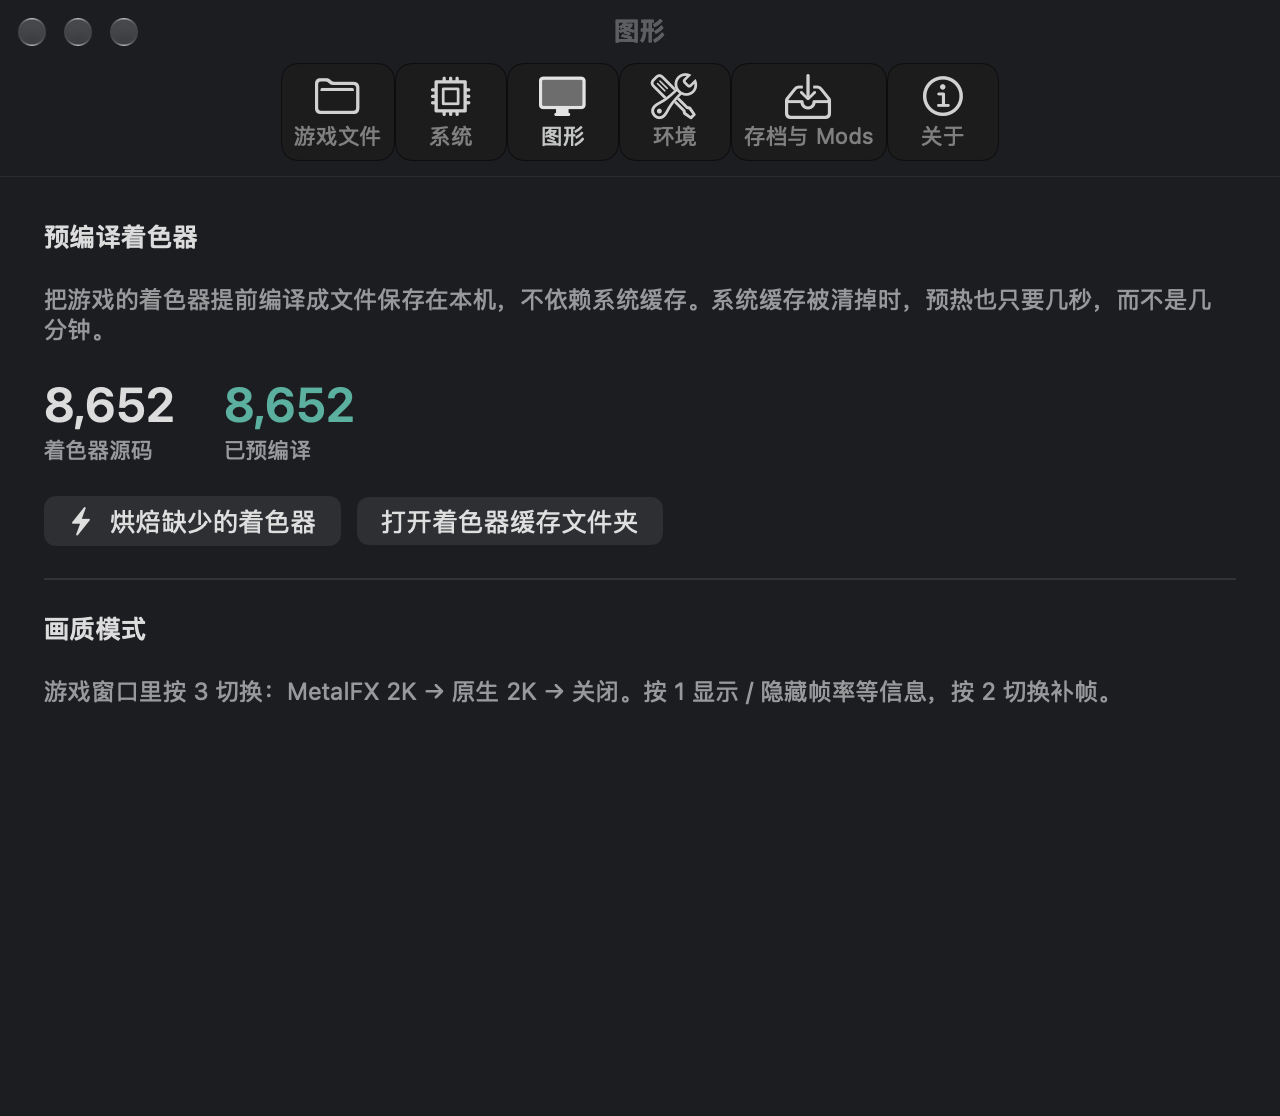
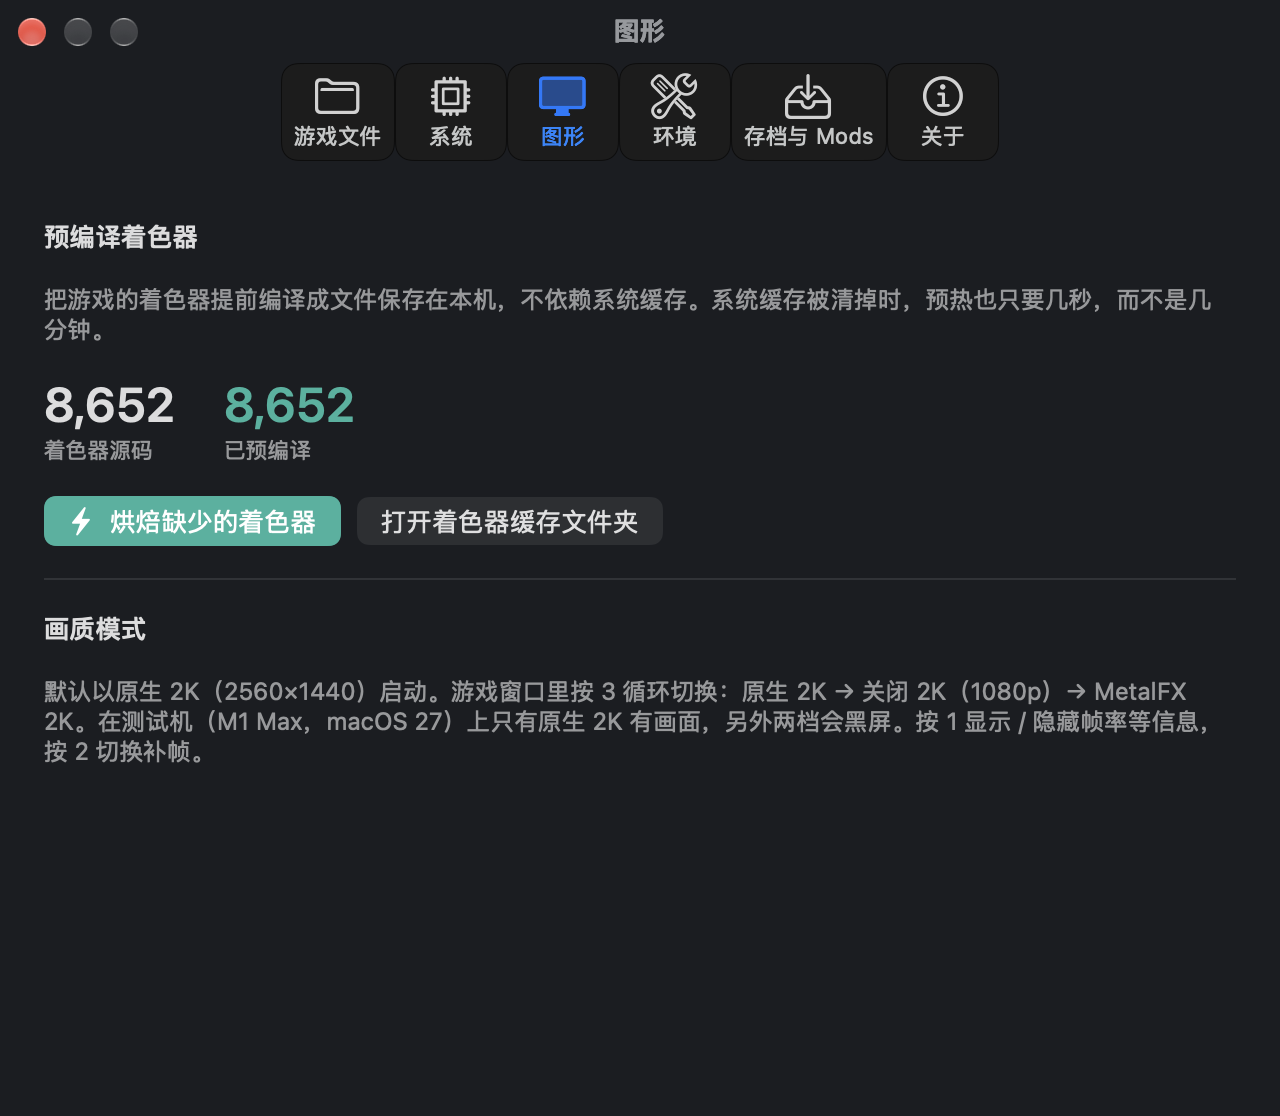
Release 1.0.1: start in native 2K by default
On the test machine (M1 Max, macOS 27) the upstream 1080p start mode and the
MetalFX mode show a black window while the full 2560x1440 output works, so the
game now starts at 2560x1440 unless TOTK_OUTPUT_RES=auto is set. The patch grows
from 3 to 5 files (game_patches.c, game_patches_v143.c). README and the graphics
page now describe the real default mode (it was wrongly written as MetalFX) and
state that the root cause of the black window was not found. Version 1.0.1.

diff --git a/Launcher.swift b/Launcher.swift
@@ -1060,7 +1060,7 @@ struct SettingsView: View {
             if let p = model.progress, model.busy == "烘焙着色器" { ProgressView(value: p).tint(accent); Text(model.step).font(.system(size: 11)).foregroundStyle(.secondary) }
             Divider()
             Text("画质模式").font(.system(size: 13, weight: .semibold))
-            Text("游戏窗口里按 3 切换：MetalFX 2K → 原生 2K → 关闭。按 1 显示 / 隐藏帧率等信息，按 2 切换补帧。").font(.system(size: 12)).foregroundStyle(.secondary)
+            Text("默认以原生 2K（2560×1440）启动。游戏窗口里按 3 循环切换：原生 2K → 关闭 2K（1080p）→ MetalFX 2K。在测试机（M1 Max，macOS 27）上只有原生 2K 有画面，另外两档会黑屏。按 1 显示 / 隐藏帧率等信息，按 2 切换补帧。").font(.system(size: 12)).foregroundStyle(.secondary)
         }
     }
 
@@ -1098,7 +1098,7 @@ struct SettingsView: View {
                 IconView(image: model.appIcon, size: 64)
                 VStack(alignment: .leading, spacing: 3) {
                     Text("王国之泪 启动器").font(.system(size: 18, weight: .bold))
-                    Text("版本 1.0 · 需要 macOS 26+ 与 Metal 4").font(.system(size: 12)).foregroundStyle(.secondary)
+                    Text("版本 1.0.1 · 需要 macOS 26+ 与 Metal 4").font(.system(size: 12)).foregroundStyle(.secondary)
                 }
             }
             Text("这个启动器只负责检测环境、调用构建脚本、导入存档和启动游戏。游戏本体、密钥和固件都必须是你自己的，启动器不包含任何游戏内容。").font(.system(size: 12)).foregroundStyle(.secondary)

diff --git a/README.md b/README.md
@@ -43,7 +43,7 @@
 
 ### 相对上游的改进（`totk-mac-fixes.patch`）
 
-补丁只涉及 3 个文件，基于上游提交 `41e1e0c`；启动器下载构建工具时会**固定到该提交并自动应用补丁**。
+补丁只涉及 5 个文件，基于上游提交 `41e1e0c`；启动器下载构建工具时会**固定到该提交并自动应用补丁**。
 
 | 改进 | 说明 | 实测（M1 Max，8290 个着色器） |
 |---|---|---|
@@ -51,12 +51,13 @@
 | **持久着色器缓存** | 把每个着色器预先编译成 `.metallib` 文件放在本机，不依赖会被其他 Metal 程序挤掉的系统缓存。需要 Metal Toolchain。 | 系统缓存冷时的预热：单线程约 40 分钟（按速度估算）→ 多线程约 8 分钟 → 用预编译库后首次约 23 秒，之后稳定约 7 秒。 |
 | **内存布局回退** | 部分 Mac 上游戏要的固定地址段无法预留。默认布局放不下时，回退到"栈、堆、alias 并排"的单块布局（alias 默认 12 GiB）。 | 在 M1 Max + macOS 27 上让游戏能启动；该机器上观察到约一半的启动会预留失败，启动器会自动重试。 |
 | **语言设置文件** | 双击启动的 App 读不到环境变量，改为读取 `~/Library/Application Support/MacNativeGames/TOTK/language.txt`。 | — |
+| **默认以原生 2K 启动**（v1.0.1） | 上游默认以 1920×1080 启动（画在 2560×1440 画布的左上角）。在测试机上，这一档和随后的 MetalFX 档都显示黑屏，完整 2560×1440 输出正常，所以默认改为以 2560×1440 启动。想回到上游的 1080p 启动，设环境变量 `TOTK_OUTPUT_RES=auto`。 | 启动后直接有画面，不用再按 `3`；整张画布都被画满。代价是渲染分辨率比 1080p 高，GPU 负担更重。 |
 
 ### Mods 与其他尚未实现的事
 
 - **Mods：入口已预留，暂未实现。** 游戏运行时目前没有 Mods 加载器，设置里的 Mods 路径只会被保存，不会被应用（界面上标着"暂不生效"）。欢迎贡献。
-- 默认画质档（MetalFX）在测试机上显示黑屏；在游戏窗口里按 `3` 切换画质档后可以显示。尚未修复。
-- 在游戏里：`1` 显示 / 隐藏帧率等信息，`2` 切换补帧，`3` 切换画质。
+- **1080p 启动档和 MetalFX 档在测试机上仍会黑屏**（v1.0.1 起默认已避开它们，改为原生 2K 启动）。游戏渲染和放大后的输出都是正常的，问题出在最后把画面送到窗口显示的一步，**根本原因没有找到**；在其他 Mac 上是否也会这样未知。
+- 在游戏里：`1` 显示 / 隐藏帧率等信息，`2` 切换补帧，`3` 循环切换画质（原生 2K → 关闭 2K（1080p）→ MetalFX 2K → 原生 2K；在测试机上只有"原生 2K"有画面）。
 
 ### 系统要求
 
@@ -120,9 +121,9 @@ It is **derived from [MacNativeGames](https://github.com/ly05010419/MacNativeGam
 
 **Features**: game-library window (drag & drop `.xci`/`.nsp`), system detection (macOS 26+, Metal 4, M-series, RAM), environment check with background installers (including the 839 MB Metal Toolchain), 12 game languages (Simplified Chinese by default), save import with automatic backup, build progress, and automatic retry when the game fails to reserve its address space.
 
-**Patch (`totk-mac-fixes.patch`, against upstream commit `41e1e0c`)**: multi-threaded shader pre-warming (6 threads by default, `TOTK_WARM_THREADS`), a persistent precompiled shader cache (`.metallib` files that other Metal apps cannot evict), a memory-layout fallback for Macs where the default fixed addresses cannot be reserved, and a `language.txt` setting.
+**Patch (`totk-mac-fixes.patch`, 5 files, against upstream commit `41e1e0c`)**: multi-threaded shader pre-warming (6 threads by default, `TOTK_WARM_THREADS`), a persistent precompiled shader cache (`.metallib` files that other Metal apps cannot evict), a memory-layout fallback for Macs where the default fixed addresses cannot be reserved, a `language.txt` setting, and (v1.0.1) **starting in native 2560×1440 by default** (`TOTK_OUTPUT_RES=auto` restores the upstream 1080p start).
 
-**Not implemented**: **mods** — the field is reserved in the UI but the game runtime has no mod loader yet, so nothing is applied. The default MetalFX picture mode showed a black screen on the test machine (press `3` in-game to switch).
+**Not implemented / known issues**: **mods** — the field is reserved in the UI but the game runtime has no mod loader yet, so nothing is applied. On the test machine (M1 Max, macOS 27) the 1080p start mode and the MetalFX mode show a black window while the full 2560×1440 output works; the scene and the upscaled output are rendered correctly, the failure is in the last step that puts the picture on the window. The root cause was not found, v1.0.1 simply avoids those modes by default.
 
 **Requirements**: macOS 26+ and Metal 4 (the launcher itself targets macOS 15 but will report "unsupported" on older systems), Apple silicon, 16 GB+ recommended. Tested only on an M1 Max / 64 GB / macOS 27.0.1.
 
